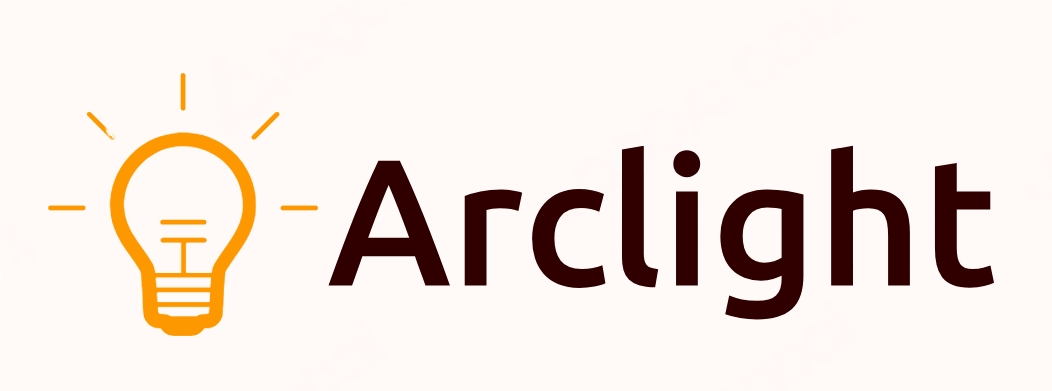
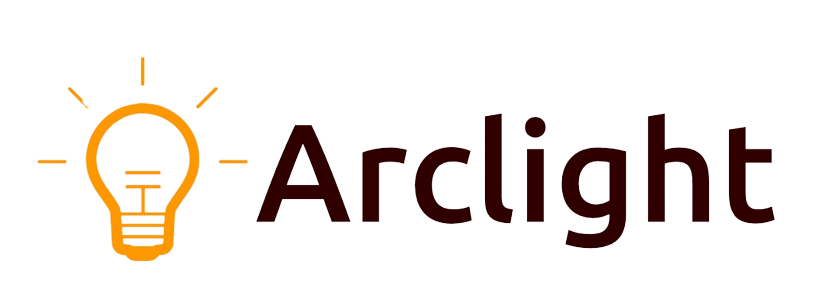
Css change for registertion page

diff --git a/Screen/RegisterScreen.js b/Screen/RegisterScreen.js
@@ -109,11 +109,11 @@ const RegisterScreen = (props) => {
       <View
         style={{
           flex: 1,
-          backgroundColor: '#307ecc',
+          backgroundColor: 'white',
           justifyContent: 'center',
         }}>
         <Image
-          source={require('../Image/aboutreact.png')}
+          source={require('../Image/arclight.png')}
           style={{
             height: 150,
             resizeMode: 'contain',
@@ -133,7 +133,7 @@ const RegisterScreen = (props) => {
     );
   }
   return (
-    <View style={{flex: 1, backgroundColor: '#307ecc'}}>
+    <View style={{flex: 1, backgroundColor: 'white'}}>
       <Loader loading={loading} />
       <ScrollView
         keyboardShouldPersistTaps="handled"
@@ -143,7 +143,7 @@ const RegisterScreen = (props) => {
         }}>
         <View style={{alignItems: 'center'}}>
           <Image
-            source={require('../Image/aboutreact.png')}
+            source={require('../Image/arclight.png')}
             style={{
               width: '50%',
               height: 100,
@@ -246,7 +246,7 @@ const RegisterScreen = (props) => {
             style={styles.buttonStyle}
             activeOpacity={0.5}
             onPress={handleSubmitButton}>
-            <Text style={styles.buttonTextStyle}>REGISTER</Text>
+            <Text style={styles.buttonTextStyle}>Sign Up</Text>
           </TouchableOpacity>
         </KeyboardAvoidingView>
       </ScrollView>
@@ -265,10 +265,10 @@ const styles = StyleSheet.create({
     margin: 10,
   },
   buttonStyle: {
-    backgroundColor: '#7DE24E',
+    backgroundColor: 'gold',
     borderWidth: 0,
     color: '#FFFFFF',
-    borderColor: '#7DE24E',
+    borderColor: 'gold',
     height: 40,
     alignItems: 'center',
     borderRadius: 30,
@@ -278,18 +278,19 @@ const styles = StyleSheet.create({
     marginBottom: 20,
   },
   buttonTextStyle: {
-    color: '#FFFFFF',
-    paddingVertical: 10,
+    color: 'white',
+    paddingVertical: 8,
+    fontWeight: 'bold',
     fontSize: 16,
   },
   inputStyle: {
     flex: 1,
-    color: 'white',
+    color: 'black',
     paddingLeft: 15,
     paddingRight: 15,
     borderWidth: 1,
     borderRadius: 30,
-    borderColor: '#dadae8',
+    borderColor: 'gold',
   },
   errorTextStyle: {
     color: 'red',

diff --git a/App.js b/App.js
@@ -30,13 +30,14 @@ const Auth = () => {
         name="RegisterScreen"
         component={RegisterScreen}
         options={{
-          title: 'Register', //Set Header Title
+          title: 'Sign Up', //Set Header Title
           headerStyle: {
-            backgroundColor: '#307ecc', //Set Header color
+            backgroundColor: 'gold', //Set Header color
           },
           headerTintColor: '#fff', //Set Header text color
           headerTitleStyle: {
             fontWeight: 'bold', //Set Header text style
+            fontSize: 24,
           },
         }}
       />

diff --git a/Screen/Login.js b/Screen/Login.js
@@ -92,7 +92,7 @@ const LoginScreen = ({navigation}) => {
           <KeyboardAvoidingView enabled>
             <View style={{alignItems: 'center'}}>
               <Image
-                source={require('../Image/aboutreact.png')}
+                source={require('../Image/arclight.png')}
                 style={{
                   width: '50%',
                   height: 100,
